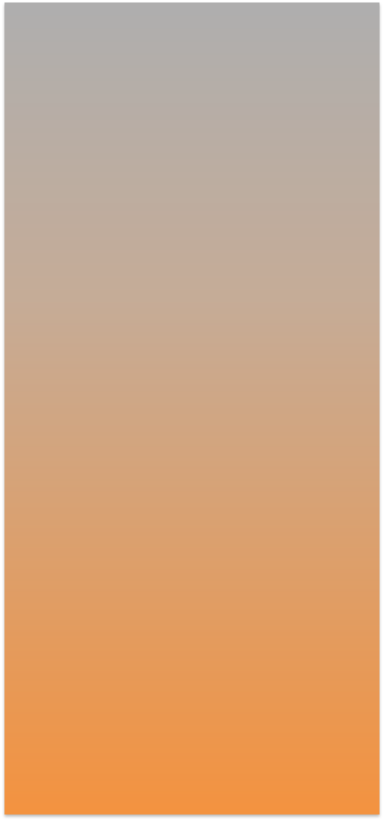
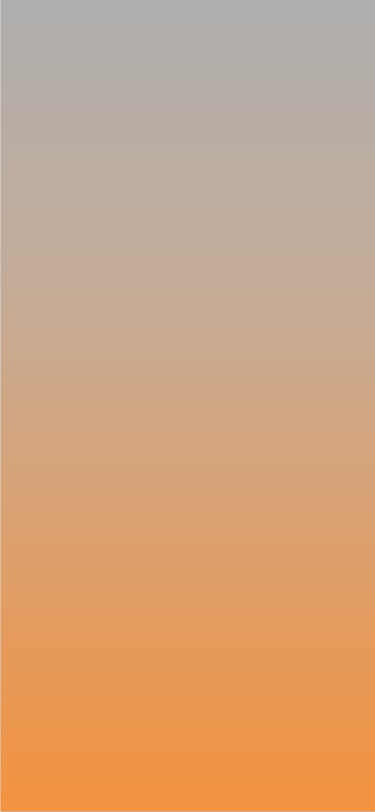
misfunction of splash screen resolved, splash screen images updated, splash screen layout for ios and android updated

Changed region(s): [[0.0, 0.0, 1.0, 1.0]]

diff --git a/App/Themes/ApplicationStyles.js b/App/Themes/ApplicationStyles.js
@@ -1,0 +1,80 @@
+import Fonts from './Fonts'
+import Metrics from './Metrics'
+import Colors from './Colors'
+
+// This file is for a reusable grouping of Theme items.
+// Similar to an XML fragment layout in Android
+
+const ApplicationStyles = {
+  screen: {
+    mainContainer: {
+      flex: 1,
+      backgroundColor: Colors.transparent
+    },
+    backgroundImage: {
+      position: 'absolute',
+      top: 0,
+      left: 0,
+      bottom: 0,
+      right: 0
+    },
+    container: {
+      flex: 1,
+      paddingTop: Metrics.baseMargin,
+      backgroundColor: Colors.transparent
+    },
+    section: {
+      margin: Metrics.section,
+      padding: Metrics.baseMargin
+    },
+    sectionText: {
+      ...Fonts.style.normal,
+      paddingVertical: Metrics.doubleBaseMargin,
+      color: Colors.snow,
+      marginVertical: Metrics.smallMargin,
+      textAlign: 'center'
+    },
+    subtitle: {
+      color: Colors.snow,
+      padding: Metrics.smallMargin,
+      marginBottom: Metrics.smallMargin,
+      marginHorizontal: Metrics.smallMargin
+    },
+    titleText: {
+      ...Fonts.style.h2,
+      fontSize: 14,
+      color: Colors.text
+    }
+  },
+  darkLabelContainer: {
+    padding: Metrics.smallMargin,
+    paddingBottom: Metrics.doubleBaseMargin,
+    borderBottomColor: Colors.border,
+    borderBottomWidth: 1,
+    marginBottom: Metrics.baseMargin
+  },
+  darkLabel: {
+    fontFamily: Fonts.type.bold,
+    color: Colors.snow
+  },
+  groupContainer: {
+    margin: Metrics.smallMargin,
+    flexDirection: 'row',
+    justifyContent: 'space-around',
+    alignItems: 'center'
+  },
+  sectionTitle: {
+    ...Fonts.style.h4,
+    color: Colors.coal,
+    backgroundColor: Colors.ricePaper,
+    padding: Metrics.smallMargin,
+    marginTop: Metrics.smallMargin,
+    marginHorizontal: Metrics.baseMargin,
+    borderWidth: 1,
+    borderColor: Colors.ember,
+    alignItems: 'center',
+    textAlign: 'center'
+  }
+}
+
+export default ApplicationStyles

diff --git a/App/Containers/App.js b/App/Containers/App.js
@@ -11,22 +11,47 @@ import DebugConfig from "../Config/DebugConfig"
 import React, { useEffect, Component } from 'react';
 import createStore from '../Redux';
 import SplashScreen from 'react-native-splash-screen'
-import {Provider} from 'react-redux';
+import { Provider } from 'react-redux';
 import RootContainer from './RootContainer';
 
 const store = createStore();
 
-const App = () => {
+class App extends Component {
 
-    useEffect(() => {
-      SplashScreen.hide();
-    }, [])
+  constructor(props) {
+    super(props)
+
+    this.state = {
+      firstTime: true
+    }
+  }
+
+  render() {
+
+    /*
+    setTimeout(() => {
+      console.log("running timeout function", moment.now())
+      if (this.state.firstTime) {
+        this.setState({
+          firstTime: false
+        })
+      }
+    }, 3000);
+    */
+
+    if (this.state.firstTime) {
+      SplashScreen.hide()
+      this.setState({
+        firstTime: false
+      })
+    }
 
     return (
       <Provider store={store}>
         <RootContainer />
       </Provider>
-    );
+    )
+  }
 }
 
 export default (DebugConfig.useReactotron ? console.tron.overlay(App) : App);

diff --git a/App/Themes/Fonts.js b/App/Themes/Fonts.js
@@ -1,0 +1,60 @@
+import Metrics from './Metrics'
+
+const type = {
+  regular: 'Montserrat-Regular',
+  light: 'Montserrat-Light',
+  medium: 'Montserrat-Medium',
+  semibold: 'Montserrat-SemiBold',
+  bold: 'Montserrat-Bold',
+  black: 'Montserrat-Black',
+  headerTitle: 'OpenSans-SemiBold'
+}
+
+const size = {
+  ten: Metrics.screenWidth * 0.025,
+  twelve: Metrics.screenWidth * 0.030,
+  fourteen: Metrics.screenWidth * 0.035,
+  sixteen: Metrics.screenWidth * 0.040,
+  eighteen: Metrics.screenWidth * 0.045,
+}
+
+const style = {
+  h1: {
+    fontFamily: type.base,
+    fontSize: size.h1
+  },
+  h2: {
+    fontWeight: 'bold',
+    fontSize: size.h2
+  },
+  h3: {
+    fontFamily: type.emphasis,
+    fontSize: size.h3
+  },
+  h4: {
+    fontFamily: type.base,
+    fontSize: size.h4
+  },
+  h5: {
+    fontFamily: type.base,
+    fontSize: size.h5
+  },
+  h6: {
+    fontFamily: type.emphasis,
+    fontSize: size.h6
+  },
+  normal: {
+    fontFamily: type.base,
+    fontSize: size.regular
+  },
+  description: {
+    fontFamily: type.base,
+    fontSize: size.medium
+  }
+}
+
+export default {
+  type,
+  size,
+  style
+}

diff --git a/App/Themes/Colors.js b/App/Themes/Colors.js
@@ -1,0 +1,37 @@
+const colors = {
+  background: '#1F0808',
+  clear: 'rgba(0,0,0,0)',
+  facebook: '#3b5998',
+  transparent: 'rgba(0,0,0,0)',
+  silver: '#F7F7F7',
+  steel: '#CCCCCC',
+  error: 'rgba(200, 0, 0, 0.8)',
+  ricePaper: 'rgba(255,255,255, 0.75)',
+  frost: '#D8D8D8',
+  cloud: 'rgba(200,200,200, 0.35)',
+  windowTint: 'rgba(0, 0, 0, 0.4)',
+  panther: '#161616',
+  charcoal: '#595959',
+  coal: '#2d2d2d',
+  bloodOrange: '#fb5f26',
+  snow: 'white',
+  ember: 'rgba(164, 0, 48, 0.5)',
+  fire: '#e73536',
+  drawer: 'rgba(30, 30, 29, 0.95)',
+  eggplant: '#251a34',
+  border: '#483F53',
+  banner: '#5F3E63',
+  text: '#E0D7E5',
+  activeTintColor: "#000000",
+  inactiveTintColor: "#65656F",
+  activeTab: "#1D65EA",
+  borderGrey: "#F0F0F0",
+  borderBlue: "#2F61D5",
+  borderGreen: "#00D85A",
+  borderPurple: "#7540EE",
+  titleGrey: "#707070",
+  darkblue: "#25265E",
+  bluishGrey: "#787993"
+}
+
+export default colors

diff --git a/App/Themes/Metrics.js b/App/Themes/Metrics.js
@@ -1,0 +1,36 @@
+import {Dimensions, Platform} from 'react-native'
+
+const { width, height } = Dimensions.get('window')
+
+// Used via Metrics.baseMargin
+const Metrics = {
+  marginHorizontal: width * 0.05,
+  marginVertical: width * 0.05,
+  section: 25,
+  baseMargin: 10,
+  doubleBaseMargin: 20,
+  smallMargin: 5,
+  doubleSection: 50,
+  horizontalLineHeight: 1,
+  screenWidth: width < height ? width : height,
+  screenHeight: width < height ? height : width,
+  navBarHeight: (Platform.OS === 'ios') ? 64 : 54,
+  buttonRadius: 4,
+  icons: {
+    tiny: 15,
+    small: 20,
+    medium: 30,
+    large: 45,
+    xl: 50
+  },
+  images: {
+    small: 20,
+    medium: 40,
+    large: 60,
+    logo: 200
+  },
+  tabbarHeight: width * 0.15,
+  headerHeight: width * 0.15
+}
+
+export default Metrics

diff --git a/App/Components/SplashScreenAnimation.js b/App/Components/SplashScreenAnimation.js
@@ -1,0 +1,18 @@
+import React, { Component } from "react";
+import { Animated, View, Image } from "react-native";
+import { Images } from "../Themes"
+import styles from "./Styles/SplashScreenAnimationStyles"
+
+class SplashScreenAnimation extends Component {
+
+    render() {
+        return (
+            <Animated.View style={styles.container}>
+                <Animated.Image style={styles.image} source={Images.splashTransparent} />
+            </Animated.View>
+        )
+    }
+
+}
+
+export default SplashScreenAnimation;

diff --git a/App/Components/Styles/SplashScreenAnimationStyles.js b/App/Components/Styles/SplashScreenAnimationStyles.js
@@ -1,0 +1,14 @@
+import { StyleSheet } from 'react-native'
+import { Colors, Metrics, Fonts } from '../../Themes/'
+
+export default StyleSheet.create({
+    container: {
+        flex: 1,
+        backgroundColor: "orange",
+    },
+    image: {
+        width: Metrics.screenWidth,
+        height: Metrics.screenHeight,
+        resizeMode: "cover",
+    }
+})

diff --git a/App/Themes/index.js b/App/Themes/index.js
@@ -1,0 +1,7 @@
+import Colors from './Colors'
+import Fonts from './Fonts'
+import Metrics from './Metrics'
+import Images from './Images'
+import ApplicationStyles from './ApplicationStyles'
+
+export { Colors, Fonts, Images, Metrics, ApplicationStyles }

diff --git a/App/Themes/Images.js b/App/Themes/Images.js
@@ -1,0 +1,6 @@
+// leave off @2x/@3x
+const images = {
+  splashTransparent: require("../Images/splash-transparent.png")
+}
+
+export default images

diff --git a/android/app/src/main/java/com/socialapp/MainActivity.java b/android/app/src/main/java/com/socialapp/MainActivity.java
@@ -1,11 +1,19 @@
 package com.socialapp;
 
+import android.os.Bundle;
 import com.facebook.react.ReactActivity;
 import com.facebook.react.ReactActivityDelegate;
 import com.facebook.react.ReactRootView;
 import com.swmansion.gesturehandler.react.RNGestureHandlerEnabledRootView;
+import org.devio.rn.splashscreen.SplashScreen;
 
 public class MainActivity extends ReactActivity {
+
+  @Override
+  protected void onCreate(Bundle savedInstanceState) {
+    SplashScreen.show(this);  // here
+    super.onCreate(savedInstanceState);
+  }
 
   @Override
   protected ReactActivityDelegate createReactActivityDelegate() {
